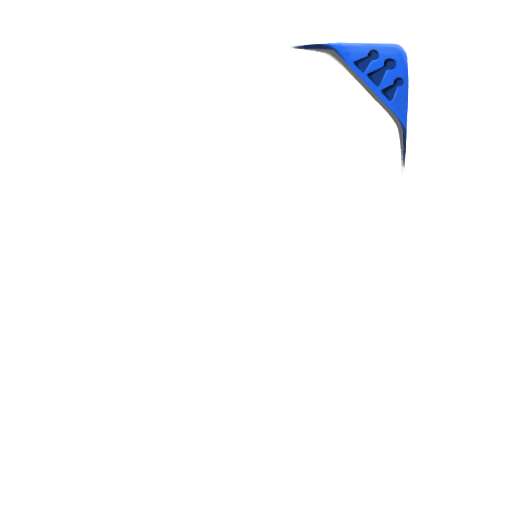
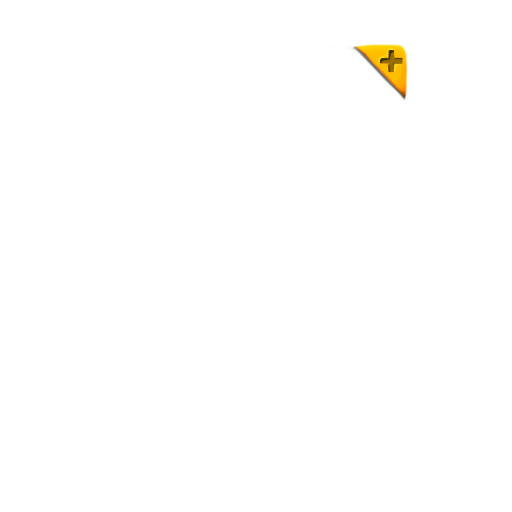
sorted cards correctly and change new artwork for booster pack cards

Changed region(s): [[0.5625, 0.0625, 0.8125, 0.3438]]

diff --git a/theUnchainedMod/src/main/java/theUnchainedMod/patches/MPIconRendererPatch.java b/theUnchainedMod/src/main/java/theUnchainedMod/patches/MPIconRendererPatch.java
@@ -10,6 +10,7 @@ import com.megacrit.cardcrawl.core.CardCrawlGame;
 import com.megacrit.cardcrawl.core.Settings;
 import com.megacrit.cardcrawl.screens.mainMenu.MainMenuScreen;
 import theUnchainedMod.cards.AbstractDynamicBoosterPackCard;
+import theUnchainedMod.cards.AbstractDynamicBoosterPackRelayCard;
 import theUnchainedMod.util.TextureLoader;
 
 import static theUnchainedMod.TheUnchainedMod.makeCardPath;
@@ -19,12 +20,18 @@ public class MPIconRendererPatch{
     private static Texture texture = TextureLoader.getTexture(makeCardPath("BoosterPackCardCorner.png"));
     public static TextureAtlas.AtlasRegion cardMpImage = new TextureAtlas.AtlasRegion(texture, 0, 0, texture.getHeight(), texture.getWidth());
     public static void Postfix(AbstractCard __instance, SpriteBatch sb){
-        if(__instance instanceof AbstractDynamicBoosterPackCard){
+        if(__instance instanceof AbstractDynamicBoosterPackCard || __instance instanceof AbstractDynamicBoosterPackRelayCard){
             if(CardCrawlGame.mainMenuScreen.screen == MainMenuScreen.CurScreen.CARD_LIBRARY){
                 if(cardMpImage != null){
                     sb.setColor(Color.WHITE.cpy());
-                    sb.draw(cardMpImage, __instance.current_x - (float)cardMpImage.originalWidth / 2.0F, __instance.current_y - (float)cardMpImage.originalHeight / 2.0F, (float)cardMpImage.originalWidth / 2.0F, (float)cardMpImage.originalHeight / 2.0F, (float)cardMpImage.originalWidth, (float)cardMpImage.originalHeight, __instance.drawScale * Settings.scale, __instance.drawScale * Settings.scale, __instance.angle);
-                }
+                    sb.setColor(Color.WHITE.cpy());
+                    sb.draw(cardMpImage,
+                            __instance.current_x - (float)cardMpImage.originalWidth / 2.0F,
+                            __instance.current_y - (float)cardMpImage.originalHeight / 2.0F,
+                            (float)cardMpImage.originalWidth / 2.0F, (float)cardMpImage.originalHeight / 2.0F, (float)cardMpImage.originalWidth, (float)cardMpImage.originalHeight,
+                            __instance.drawScale * Settings.scale,
+                            __instance.drawScale * Settings.scale,
+                            __instance.angle);}
             }
         }
     }

diff --git a/theUnchainedMod/src/main/java/theUnchainedMod/patches/BoosterPackBetaArtTogglePatch.java b/theUnchainedMod/src/main/java/theUnchainedMod/patches/BoosterPackBetaArtTogglePatch.java
@@ -17,7 +17,16 @@ import theUnchainedMod.characters.TheUnchained;
 public class BoosterPackBetaArtTogglePatch {
     @SpirePostfixPatch
     public static boolean otherCharacterCheck(boolean __result, SingleCardViewPopup __instance, AbstractCard ___card) {
-        if (___card != null && !__result && ___card.color == TheUnchained.Enums.COLOR_BOOSTER) { // Check if card is a booster pack card
+        /*if (___card != null && !__result && ___card.color == TheUnchained.Enums.COLOR_BOOSTER) { // Check if card is a booster pack card
+            for (AbstractPlayer p : CardCrawlGame.characterManager.getAllCharacters()) {
+                if (p.getCardColor() == TheUnchained.Enums.COLOR_ORANGE) { // Unchained Color
+                    Prefs playerPrefs = p.getPrefs();
+                    return playerPrefs != null && playerPrefs.getBoolean(TrackKilledHeart.HEART_KILL, false);
+                }
+            }
+        }
+        return __result;*/
+        if (___card != null && !__result) {
             for (AbstractPlayer p : CardCrawlGame.characterManager.getAllCharacters()) {
                 if (p.getCardColor() == TheUnchained.Enums.COLOR_ORANGE) { // Unchained Color
                     Prefs playerPrefs = p.getPrefs();

diff --git a/theUnchainedMod/src/main/java/theUnchainedMod/patches/BoosterCardsToLibraryBottomPatch.java b/theUnchainedMod/src/main/java/theUnchainedMod/patches/BoosterCardsToLibraryBottomPatch.java
@@ -5,14 +5,22 @@ import com.megacrit.cardcrawl.cards.CardGroup;
 import com.megacrit.cardcrawl.screens.compendium.CardLibSortHeader;
 import com.megacrit.cardcrawl.screens.compendium.CardLibraryScreen;
 import theUnchainedMod.cards.AbstractDynamicBoosterPackCard;
+import theUnchainedMod.cards.AbstractDynamicBoosterPackRelayCard;
 
 @SpirePatch2(clz = CardLibraryScreen.class, method = "updateCards")
-public class CardsToLibraryBottomPatch{
+public class BoosterCardsToLibraryBottomPatch {
     public static void Prefix(CardGroup ___visibleCards, CardLibSortHeader ___sortHeader){
         if(___sortHeader.justSorted){
             int greaterThan = 1;
             int equal = 0;
             int lessThan = -1;
+
+            ___visibleCards.group.sort((card1, card2) -> {
+                if(card1 instanceof AbstractDynamicBoosterPackRelayCard){
+                    return (card2 instanceof AbstractDynamicBoosterPackRelayCard) ? equal : greaterThan;
+                }
+                return (card2 instanceof AbstractDynamicBoosterPackRelayCard) ? lessThan : equal;
+            });
 
             ___visibleCards.group.sort((card1, card2) -> {
                 if(card1 instanceof AbstractDynamicBoosterPackCard){

diff --git a/theUnchainedMod/src/main/java/theUnchainedMod/TheUnchainedMod.java b/theUnchainedMod/src/main/java/theUnchainedMod/TheUnchainedMod.java
@@ -259,11 +259,11 @@ public class TheUnchainedMod implements
                 ENERGY_ORB_DEFAULT_GRAY_PORTRAIT, CARD_ENERGY_ORB);
 
         // THE UNCHAINED BOOSTER PACK CARDS
-        BaseMod.addColor(TheUnchained.Enums.COLOR_BOOSTER, UNCHAINED_BOOSTER_COLOR, UNCHAINED_BOOSTER_COLOR, UNCHAINED_BOOSTER_COLOR,
+        /*BaseMod.addColor(TheUnchained.Enums.COLOR_BOOSTER, UNCHAINED_BOOSTER_COLOR, UNCHAINED_BOOSTER_COLOR, UNCHAINED_BOOSTER_COLOR,
                 UNCHAINED_BOOSTER_COLOR, UNCHAINED_BOOSTER_COLOR, UNCHAINED_BOOSTER_COLOR, UNCHAINED_BOOSTER_COLOR,
                 ATTACK_DEFAULT_GRAY, SKILL_DEFAULT_GRAY, POWER_DEFAULT_GRAY, ENERGY_ORB_DEFAULT_GRAY,
                 ATTACK_DEFAULT_GRAY_PORTRAIT, SKILL_DEFAULT_GRAY_PORTRAIT, POWER_DEFAULT_GRAY_PORTRAIT,
-                ENERGY_ORB_DEFAULT_GRAY_PORTRAIT, CARD_ENERGY_ORB);
+                ENERGY_ORB_DEFAULT_GRAY_PORTRAIT, CARD_ENERGY_ORB);*/
 
         logger.info("Done creating the color");
 

diff --git a/theUnchainedMod/src/main/java/theUnchainedMod/booster_pack_cards/SwordOfDamocles.java b/theUnchainedMod/src/main/java/theUnchainedMod/booster_pack_cards/SwordOfDamocles.java
@@ -23,7 +23,7 @@ public class SwordOfDamocles extends AbstractDynamicBoosterPackCard {
     private static final CardRarity RARITY = CardRarity.RARE;
     private static final CardTarget TARGET = CardTarget.SELF;
     private static final CardType TYPE = CardType.SKILL;
-    public static final CardColor COLOR = TheUnchained.Enums.COLOR_BOOSTER;
+    public static final CardColor COLOR = TheUnchained.Enums.COLOR_ORANGE;
     private static final int COST = 0;
     private static final int MAGIC_NUMBER = 3; // Temp Strength
     private static final int SECOND_MAGIC_NUMBER = 6;

diff --git a/theUnchainedMod/src/main/java/theUnchainedMod/booster_pack_cards/BarbedWire.java b/theUnchainedMod/src/main/java/theUnchainedMod/booster_pack_cards/BarbedWire.java
@@ -20,7 +20,7 @@ public class BarbedWire extends AbstractDynamicBoosterPackCard {
     private static final CardRarity RARITY = CardRarity.UNCOMMON;
     private static final CardTarget TARGET = CardTarget.SELF;
     private static final CardType TYPE = CardType.POWER;
-    public static final CardColor COLOR = TheUnchained.Enums.COLOR_BOOSTER;
+    public static final CardColor COLOR = TheUnchained.Enums.COLOR_ORANGE;
     public static final String UPGRADE_DESCRIPTION = languagePack.getCardStrings(ID).UPGRADE_DESCRIPTION;
 
     private static final int COST = 1;

diff --git a/theUnchainedMod/src/main/java/theUnchainedMod/booster_pack_cards/MagicMecha.java b/theUnchainedMod/src/main/java/theUnchainedMod/booster_pack_cards/MagicMecha.java
@@ -21,7 +21,7 @@ public class MagicMecha extends AbstractDynamicBoosterPackCard {
     private static final CardRarity RARITY = CardRarity.RARE;
     private static final CardTarget TARGET = CardTarget.SELF;
     private static final CardType TYPE = CardType.POWER;
-    public static final CardColor COLOR = TheUnchained.Enums.COLOR_BOOSTER;
+    public static final CardColor COLOR = TheUnchained.Enums.COLOR_ORANGE;
     public static final String UPGRADE_DESCRIPTION = languagePack.getCardStrings(ID).UPGRADE_DESCRIPTION;
 
     private static final int COST = 1;

diff --git a/theUnchainedMod/src/main/java/theUnchainedMod/cards/AbstractDynamicBoosterPackRelayCard.java b/theUnchainedMod/src/main/java/theUnchainedMod/cards/AbstractDynamicBoosterPackRelayCard.java
@@ -6,7 +6,7 @@ import com.megacrit.cardcrawl.dungeons.AbstractDungeon;
 import theUnchainedMod.patches.CustomTags;
 import theUnchainedMod.powers.ArcaneMasteryPower;
 
-public abstract class AbstractDynamicBoosterPackRelayCard extends AbstractDynamicCard {
+public abstract class AbstractDynamicBoosterPackRelayCard extends AbstractDynamicRelayCard {
 
     public AbstractDynamicBoosterPackRelayCard(String id, String img, int cost, CardType type, CardColor color, CardRarity rarity, CardTarget target) {
         super(id, img, cost, type, color, rarity, target);

diff --git a/theUnchainedMod/src/main/java/theUnchainedMod/booster_pack_cards/MeltingHex.java b/theUnchainedMod/src/main/java/theUnchainedMod/booster_pack_cards/MeltingHex.java
@@ -24,7 +24,7 @@ public class MeltingHex extends AbstractDynamicBoosterPackCard {
     private static final CardRarity RARITY = CardRarity.UNCOMMON;
     private static final CardTarget TARGET = CardTarget.ENEMY;
     private static final CardType TYPE = CardType.SKILL;
-    public static final CardColor COLOR = TheUnchained.Enums.COLOR_BOOSTER;
+    public static final CardColor COLOR = TheUnchained.Enums.COLOR_ORANGE;
 
     private static final int COST = 2;
     private static final int MAGIC_NUMBER = 1; // Malleable Initial Amount

diff --git a/theUnchainedMod/src/main/java/theUnchainedMod/booster_pack_cards/RetreatingSwing.java b/theUnchainedMod/src/main/java/theUnchainedMod/booster_pack_cards/RetreatingSwing.java
@@ -21,7 +21,7 @@ public class RetreatingSwing extends AbstractDynamicBoosterPackCard {
     private static final CardRarity RARITY = CardRarity.UNCOMMON;
     private static final CardTarget TARGET = CardTarget.SELF_AND_ENEMY;
     private static final CardType TYPE = CardType.ATTACK;
-    public static final CardColor COLOR = TheUnchained.Enums.COLOR_BOOSTER;
+    public static final CardColor COLOR = TheUnchained.Enums.COLOR_ORANGE;
 
     private static final int COST = 2;
     private static final int DAMAGE = 7;

diff --git a/theUnchainedMod/src/main/java/theUnchainedMod/booster_pack_cards/ArcaneLink.java b/theUnchainedMod/src/main/java/theUnchainedMod/booster_pack_cards/ArcaneLink.java
@@ -27,7 +27,7 @@ public class ArcaneLink extends AbstractDynamicBoosterPackRelayCard {
     private static final CardRarity RARITY = CardRarity.UNCOMMON;
     private static final CardTarget TARGET = CardTarget.SELF;
     private static final CardType TYPE = CardType.SKILL;
-    public static final CardColor COLOR = TheUnchained.Enums.COLOR_BOOSTER;
+    public static final CardColor COLOR = TheUnchained.Enums.COLOR_ORANGE;
 
     private static final int COST = 1;
     private static final int MAGIC_NUMBER = 9;

diff --git a/theUnchainedMod/src/main/java/theUnchainedMod/booster_pack_cards/MakeHaste.java b/theUnchainedMod/src/main/java/theUnchainedMod/booster_pack_cards/MakeHaste.java
@@ -19,7 +19,7 @@ public class MakeHaste extends AbstractDynamicBoosterPackCard {
     private static final CardRarity RARITY = CardRarity.UNCOMMON;
     private static final CardTarget TARGET = CardTarget.SELF;
     private static final CardType TYPE = CardType.SKILL;
-    public static final CardColor COLOR = TheUnchained.Enums.COLOR_BOOSTER;
+    public static final CardColor COLOR = TheUnchained.Enums.COLOR_ORANGE;
 
     private static final int COST = 1;
     private static final int MAGIC_NUMBER = 3;
